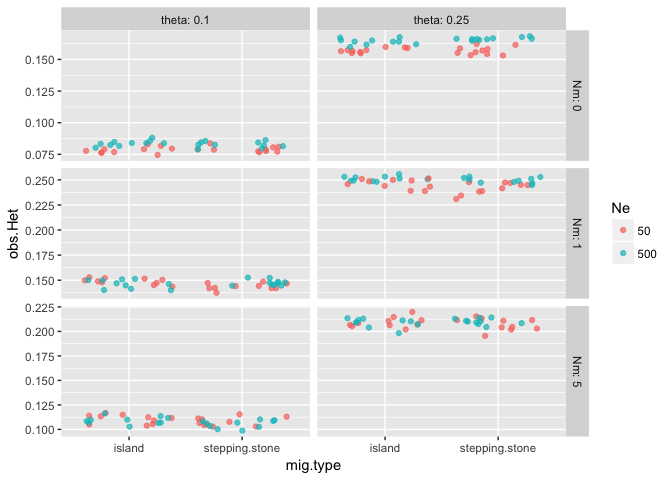
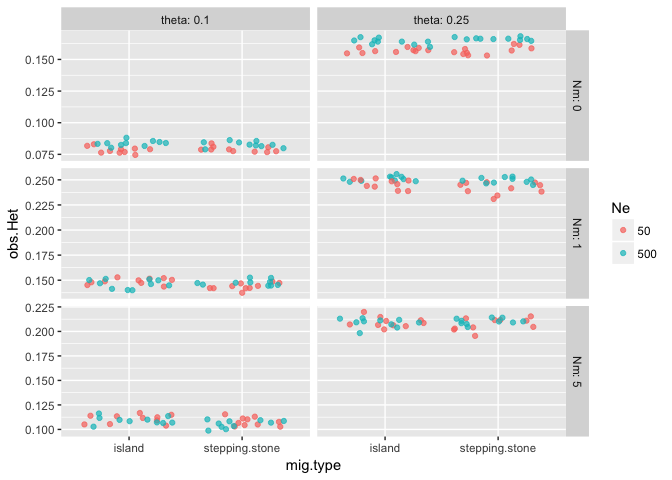
readme edits

diff --git a/README.md b/README.md
@@ -85,8 +85,10 @@ Simulated data diagnostics
 Below are diagnostic values from the final datasets generated from fastsimcoal and rmetasim. Ten replicates of the above scenarios were run through fastsimcoal, and the resulting allele frequencies were used to initialize a single run of rmetasim for 5 generations.
 
 -   Ne (est.Ne) is estimated with the `ldNe` function in strataG with a MAF cutoff of 0.05.
--   Fst (est.Fst) is estimated with Weir and Cockerhams Fst from the `statFst` function in strataG.
--   Theta (est.Theta) is estimated with theta based on heterozygosity from the `theta.h` function in pegas (called by the `theta` function in strataG).
+-   Fst (est.Fst) is estimated with Weir and Cockerhams Fst from the `statFst` function in strataG. The value shown is the Fst value from the global test of differentiation for all 5 populations.
+-   Observed Heterozygosity (obs.Het) is the mean value for all loci in all populations (n = 5000 loci).
+-   Theta (est.Theta) is estimated with theta based on heterozygosity from the `theta.h` function in pegas (called by the `theta` function in strataG). The value is mean value for all loci in all populations (n = 5000 loci).
+-   MAF is the mean minimum allele frequency for all loci in all populations (n = 5000 loci).
 
 <!-- -->
 
